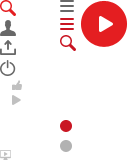
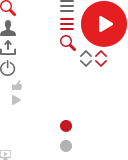
列表页完成

Changed region(s): [[0.75, 0.3125, 0.8438, 0.4375], [0.625, 0.3125, 0.7188, 0.4375]]

diff --git a/20140514-jd-video/css/list.css b/20140514-jd-video/css/list.css
@@ -1,123 +1,45 @@
 /*sprites*/
-.video-list li .thumb .icon-play,
-.banner-slide .slide-controls .arrow i,
-.recommend .hot .top .info .playbtn i,
-.recommend .slider .slider-controls li,
-.datashow i,
-.rank .tab-list li i,
-.newest .rank .tab-list .playnum i
+.filter-type li .sortarrow
 {background: url(../img/icons.png) no-repeat;}
-/*main*/
-.video-title{font-size: 18px; font-weight: bold; margin: 15px 0 10px 0; border-left: 4px solid #C81622; padding-left: 10px; line-height: 20px; position: relative;}
-.video-title .more{position: absolute; right: 10px; top: 5px; font-size: 12px; color: #CA1622;}
-.datashow i{width: 10px; height: 10px; background-position: 0 -80px; display: inline-block; margin-right: 5px; *position: relative; *top: -3px;}
-.datashow .playnum{padding-left: 30px;}
-.datashow .playnum i{width: 9px; background-position: 0 -95px;}
-.video-list li{float: left; width: 200px; margin-right: 17px; margin-bottom: 20px;}
-.video-list li a{color: #333;}
-.video-list li a:hover{color: #CA1622;}
-.video-list li .thumb{width: 200px; height: 110px; overflow: hidden; display: block; position: relative;}
-.video-list li .thumb .icon-play{width: 48px; height: 47px; position: absolute; left: 76px; top: 31px; background-position: -80px 0; z-index: 3; display: none;}
-.video-list li .thumb .alphabg{width: 200px; height: 110px; background-color: #000; opacity: 0.4; filter: alpha(opacity=40); position: absolute; top: 0; left: 0; display: none; z-index: 2;}
-.video-list li .thumb:hover .icon-play, .video-list li .thumb:hover .alphabg{display: block;}
-.video-list li .title{display: block; width: 200px; height: 20px; line-height: 20px; overflow: hidden; margin-top: 5px;}
-.video-list li .datashow{color: #999;}
-.video-list li .datashow i{background-position: -12px -80px;}
-.video-list li .datashow .playnum i{background-position: -12px -95px;}
 
 /*video-main*/
 .video-main{margin-top: 10px;}
-.banner-slide{width: 1200px; height: 400px; overflow: hidden; position: relative;}
-.banner-slide .slide-pic{position: relative; z-index: 0}
-.banner-slide .slide-pic li{position: absolute; left: 0; top: 0; opacity: 0; filter: alpha(opacity=0); z-index: 0;}
-.banner-slide .slide-pic .cur{z-index: 99; opacity: 1; filter: alpha(opacity=100);}
-.banner-slide .slide-controls{position: absolute; bottom: 15px; left: 236px; text-align: center; width: 727px; height: 60px; overflow: hidden; z-index: 5;}
-.banner-slide .slide-controls ul{display: inline-block; margin: 0 auto; *display: inline; *zoom: 1; background: rgba(0,0,0,0.4); padding: 5px 10px; filter: progid:DXImageTransform.Microsoft.gradient(enabled='true',startColorstr='#88000000',endColorstr='#88000000')}
-.banner-slide .slide-controls ul li{float: left; margin-right: 8px; cursor: pointer; position: relative; width: 85px; height: 50px; overflow: hidden;}
-.banner-slide .slide-controls ul li .border{width: 81px; height: 46px; border: 2px solid #E31E25; position: absolute; display: none;}
-.banner-slide .slide-controls ul li.cur .border{display: block;}
-.banner-slide .slide-controls .arrow{width: 24px; height: 50px; text-align: center; position: relative;}
-.banner-slide .slide-controls .arrow .bg{position: absolute; left: 0; top: 0; width: 24px; height: 50px; background-color: #fff; opacity: 0.2; filter:alpha(opacity=20);}
-.banner-slide .slide-controls .arrow:hover .bg{opacity: 0.4; filter:alpha(opacity=40);}
-.banner-slide .slide-controls .arrow i{width: 9px; height: 16px; display: block; background-position: 0 -130px; position: relative; z-index: 2; margin: 16px auto 0;}
-.banner-slide .slide-controls .arrow-r{margin-right: 0;}
-.banner-slide .slide-controls .arrow-r i{background-position: -10px -130px;}
+.nav-sub{border-bottom: 1px solid #D2D2D2; padding: 5px 0 15px;}
+.nav-sub .list li{float: left; margin-right: 30px;}
+.nav-sub .list li.cur a{color: #C81622; font-weight: bold;}
 
-.recommend{background-color: #FFF; height: 425px; border: 1px solid #D2D2D2; margin-top: 12px;}
-.recommend .video-title{margin-left: 10px;}
-.recommend .grid-m{width: 864px;}
-.recommend .grid-s{width: 333px; border-left: 1px solid #D2D2D2; height: 425px;}
-.recommend .hot .bd{padding-left: 15px; margin-top: 25px;}
-.recommend .hot .top{width: 400px; height: 320px; float: left; position: relative;}
-.recommend .hot .top img{width: 400px; height: 320px;}
-.recommend .hot .top .info{position: absolute; bottom: 0; left: 0; width: 332px; height: 95px; background-color:#333; color: #FFF; padding-left: 68px;}
-.recommend .hot .top .info a{color: #FFF;}
-.recommend .hot .top .info .playbtn{position: absolute; left: 0; top: 0; width: 48px; height: 95px; background-color: #E51E21; text-align: center; display: block;}
-.recommend .hot .top .info .playbtn:hover{background-color: #C91623;}
-.recommend .hot .top .info .playbtn i{width: 14px; height: 16px; background-position: 0 -110px; display: block; margin: 39px auto;}
-.recommend .hot .top .info .title{margin: 20px 0 10px; display: block; font-size: 14px; width: 312px; height: 20px; line-height: 20px; overflow: hidden; *float: left;}
-.recommend .hot .top .info .datashow{clear: both;}
-.recommend .slider{margin-left: 15px; width: 434px; float: left;}
-.recommend .slider .slider-list-con{width: 417px; height: 344px; overflow: hidden; position: relative; *height: 328px;}
-.recommend .slider .slider-list-wrap{position: absolute; left: 0; top: 0;}
-.recommend .slider .slider-list{float: left; width: 434px; margin-bottom: 10px;}
-.recommend .slider .slider-controls-con{text-align: center; position: relative; z-index: 5; top: -6px; *top: 12px;}
-.recommend .slider .slider-controls{display: inline-block; margin: 0 auto; *display: inline; *zoom: 1;}
-.recommend .slider .slider-controls li{width: 12px; height: 12px; background-position: -60px -140px; float: left; margin: 0 8px; cursor: pointer;}
-.recommend .slider .slider-controls .cur{background-position: -60px -120px;}
-.recommend .comment li {border-bottom: 1px solid #F1F1F1; padding: 15px 10px; height: 64px;}
-.recommend .comment li .user{width: 60px; height: 75px; float: left; text-align: center; margin-right: 6px;}
-.recommend .comment li .user .user-avatar{display: block; margin-bottom: 5px; position: relative;}
-.recommend .comment li .user .user-avatar .mask{background: url(../img/user-mask.png) no-repeat; width: 44px; height: 44px; position: absolute; top: 0; left: 8px;}
-.recommend .comment li .detail{margin-top: 5px;}
-.recommend .comment li .detail em{color: #999;}
-.recommend .comment li .detail .info{margin-top: 5px; line-height: 20px; height: 40px; overflow: hidden;}
-.recommend .comment li.last{border: none;}
+.filter-type{padding: 15px 0;}
+.filter-type ul{float: left; border-right: 1px solid #DDD; margin-right: 30px;}
+.filter-type li{float: left; margin-right: 30px; line-height: 18px;}
+.filter-type li input{float: left; margin: 2px 3px 0 0; *margin-top: -2px; padding: 0;}
+.filter-type li .sortarrow{width: 12px; height: 7px; background-position:  -80px -50px; display: inline-block; position: relative; top: -2px; left: 5px;}
+.filter-type li .sortarrow-down{background-position: -80px -60px;}
+.filter-type .filter-name{color: #999; margin-right: 10px;}
+.filter-type .filter-sort{border: none;}
+.filter-type .filter-sort a{text-decoration: none;}
+.filter-type .filter-sort a:hover .sortarrow,
+.filter-type .filter-sort .cur a .sortarrow{background-position: -95px -50px;}
+.filter-type .filter-sort a:hover .sortarrow-down,
+.filter-type .filter-sort .cur a .sortarrow-down{background-position: -95px -60px;}
+.filter-type .filter-sort .cur a{color: #CA1622;}
 
-.openclass{*padding-bottom: 15px;}
-.openclass .hot{overflow-x: hidden;}
-.openclass .hot .video-title{margin-right: 10px;}
-.openclass .hot .bd{margin: 15px 0 0 0;}
-.openclass .hot .video-list{margin-right: -15px;}
-.openclass .hot .video-list li{margin-right: 15px;}
-.openclass .rank .video-title{border: none; text-align: left; padding: 0; font-weight: normal;}
-.openclass .rank .bd{padding-left: 10px;}
-.tab-hd{border-bottom: 1px solid #D7D7D7; height: 25px; margin: 15px 0 10px; color: #666;}
-.tab-hd li{float: left; border-right: 1px solid #D7D7D7;  width: 80px; height: 18px; line-height: 18px; text-align: center; cursor: pointer; font-weight: bold; margin-top: 2px;}
-.tab-hd li.cur{color: #C81622;}
-.tab-hd li.cur span{border-bottom: 3px solid #C81622; display: inline-block; height: 21px; padding: 0 3px;}
-.tab-hd li.last{border-right: none;}
-.rank .tab-list{clear: both; margin-top: 20px;}
-.rank .tab-list li{clear: both; margin-bottom: 8px;}
-.rank .tab-list li .num{width: 13px; height: 24px; display: block; background-color: #C0C0C0; position: relative; margin-right: 10px; float: left;}
-.rank .tab-list li i{width: 7px; height: 13px; background-position: -30px 0; display: block; position: absolute; right: 0; bottom: 0;}
-.rank .tab-list li .txt{line-height: 24px; display: inline-block; width: 300px; height: 24px; overflow: hidden; word-wrap:break-word; word-break:break-all;}
-.rank .tab-list .top3 .num{background-color: #C81622;}
-.rank .tab-list .num2 i{width: 10px; height: 13px; background-position: -30px -20px;}
-.rank .tab-list .num3 i{width: 10px; height: 14px; background-position: -30px -40px;}
-.rank .tab-list .num4 i{width: 10px; height: 13px; background-position: -30px -60px;}
-.rank .tab-list .num5 i{width: 10px; height: 14px; background-position: -30px -80px;}
-.rank .tab-list .num6 i{width: 10px; height: 14px; background-position: -30px -100px;}
-.rank .tab-list .num7 i{width: 10px; height: 13px; background-position: -30px -120px;}
-.rank .tab-list .num8 i{width: 10px; height: 13px; background-position: -30px -140px;}
-
-.subject{padding-bottom: 20px;}
-.subject .subject-list{padding-top: 5px;}
-.subject .subject-list li{float: left; margin-right: 2px;}
-.subject .subject-list li a{display: block; width: 238px; height: 120px; overflow: hidden;}
-
-.newest .hot .tab-hd{font-size: 12px; margin-top: 0; border: none; position: absolute; left: 100px; top: 0;}
-.newest .hot .tab-hd li{width: auto; padding: 0 12px;}
-.newest .hot .tab-hd li span{padding: 0 3px;}
-.newest .hot .tab-hd li a{text-decoration: none;}
-.newest .hot .tab-hd li.cur a{color: #CA1622;}
-.newest .hot .tab-hd li.cur span{height: 19px;}
-.newest .hot .bd{height: 345px;}
-.newest .rank .tab-list{}
-.newest .rank .tab-list .txt{*margin-top: -15px;}
-.newest .rank .tab-list .title{color: #666}
-.newest .rank .tab-list .user{padding: 0 5px;}
-.newest .rank .tab-list .playnum{color: #999;}
-.newest .rank .tab-list .playnum i{width: 11px; height: 10px; background-position: 0 -150px; display: inline-block; position: relative; margin-right: 3px;}
-
-.footer{text-align: center; padding: 10px 0;}
+.video-list-result{clear: both;}
+.video-list-result .video-item{border-bottom: 1px solid #DDD;}
+.video-item{padding: 20px 0 10px;}
+.video-item .pic{float: left; margin-bottom: 10px;}
+.video-item .info{float: left; margin-left: 30px; width: 910px; margin-top: -3px;}
+.video-item .info .title{line-height: 20px;}
+.video-item .info .title, .video-item .info .title .user{color: #999;}
+.video-item .info .title .txt{font-size: 16px;}
+.video-item .info .title .user{margin: 0 15px 0 8px;}
+.video-item .info .title .date .time{padding-left: 5px;}
+.video-item .info .datashow{margin: 5px 0 15px;}
+.video-item .info .des{color: #666; line-height: 18px; height: 36px; overflow: hidden; margin-bottom: 8px;}
+.video-item .info .album-list{}
+.video-item .info .album-list li{float: left; margin: 0 3px 3px 0;}
+.video-item .info .album-list li a{display: block; background-color: #FFF; border: 1px solid #DDD; height: 23px; text-decoration: none; text-align: center; line-height: 23px; padding: 0 12px;}
+.video-item .info .album-list li a:hover{height: 25px; background-color: #C81622; border: none; display: block; color: #FFF; padding: 0 13px;}
+.video-item .info .album-page{clear: both; margin-top: 10px;}
+.video-item .info .album-page a{line-height: 12px; border-right: 1px solid #DDD; display: inline-block; padding: 0 15px; text-decoration: none;}
+.video-item .info .album-page .cur{color: #CA1622;}
+.video-item .info .album-page .last{border: none;}

diff --git a/20140514-jd-video/list.html b/20140514-jd-video/list.html
@@ -54,8 +54,8 @@
       </div>
       
       <ul class="nav-info">
-        <li class="cur"><a href="#">主页</a></li>
-        <li><a href="#">东哥开讲</a></li>
+        <li><a href="#">主页</a></li>
+        <li class="cur"><a href="#">东哥开讲</a></li>
         <li><a href="#">公开课</a></li>
         <li><a href="#">文档</a></li>
       </ul>
@@ -65,7 +65,138 @@
   <!-- video-main START-->
   <div class="video-main">
     <div class="w1200">
-      <div>list</div>
+      <div class="nav-sub">
+        <ul class="list clearfix">
+          <li class="cur"><a href="#">东哥开讲</a></li>
+          <li><a href="#">CTO系统</a></li>
+          <li><a href="#">内控合规部</a></li>
+          <li><a href="#">总裁办</a></li>
+          <li><a href="#">用户体验部</a></li>
+          <li><a href="#">CFO系统</a></li>
+          <li><a href="#">CHO&amp;GC系统</a></li>
+          <li><a href="#">CSO系统</a></li>
+          <li><a href="#">活动</a></li>
+        </ul>
+      </div>
+      <!-- nav-sub END-->
+      <div class="filter-type clearfix">
+        <ul class="filter-kind">
+          <li class="filter-name">类别：</li>
+          <li><label><input type="radio" name="filter-kind" checked="true">全部</label></li>
+          <li><label><input type="radio" name="filter-kind">公开课</label></li>
+          <li><label><input type="radio" name="filter-kind">非公开课</label></li>
+        </ul>
+        <ul class="filter-sort">
+          <li class="filter-name">排序：</li>
+          <li><a href="#" target="_self">发布时间<i class="sortarrow sortarrow-down"></i></a></li>
+          <li class="cur"><a href="#" target="_self">点击量<i class="sortarrow sortarrow-up"></i></a></li>
+          <li><a href="#" target="_self">点赞数<i class="sortarrow sortarrow-down"></i></a></li>
+        </ul>
+      </div>
+      <!-- filter-type END-->
+      <div class="video-list-result">
+        <div class="video-item clearfix">
+          <div class="pic"><a href="#" title="扬帆起航配送500强储备站长集训营"><img src="img/test/video-result.jpg" alt=""></a></div>
+          <div class="info">
+            <div class="title"><a href="#" class="txt">扬帆起航配送500强储备站长集训营</a><a href="#" class="user">Skydong</a><span class="date">2014.4.25<em class="time">14:00</em></span></div>
+            <div class="datashow datashow-gray">
+              <span class="praise"><i></i>24</span>
+              <span class="playnum"><i></i>247</span>
+            </div>
+            <div class="des">京东是中国最大的自营式电商企业，在线销售计算机、手机及其它数码产品、家电、汽车配件、服装与鞋类、奢侈品、家居与家庭用品、化妆品与其它个人护理用品、食品与营养品、书籍与其它媒体产品、母婴用品与玩具、体育与健身器材以及虚拟商品等13大类3,150万种SKUs优质商品。2013年，活跃用户数达到4740万人，完成订单量达到 3.233亿。</div>
+            <div class="album-list clearfix">
+              <ul>
+                <li><a href="#">第1集</a></li>
+                <li><a href="#">第2集</a></li>
+                <li><a href="#">第3集</a></li>
+                <li><a href="#">第4集</a></li>
+                <li><a href="#">第5集</a></li>
+                <li><a href="#">第6集</a></li>
+                <li><a href="#">第7集</a></li>
+                <li><a href="#">第8集</a></li>
+                <li><a href="#">第9集</a></li>
+                <li><a href="#">第10集</a></li>
+                <li><a href="#">第11集</a></li>
+                <li><a href="#">第12集</a></li>
+                <li><a href="#">第13集</a></li>
+                <li><a href="#">第14集</a></li>
+                <li><a href="#">第15集</a></li>
+                <li><a href="#">第16集</a></li>
+              </ul>
+            </div>
+            <div class="album-page">
+              <a href="#" class="page-num cur">1</a><a href="#" class="page-num">2</a><a href="#" class="page-num last">3</a>
+            </div>
+          </div>
+        </div>
+        <div class="video-item clearfix">
+          <div class="pic"><a href="#" title="扬帆起航配送500强储备站长集训营"><img src="img/test/video-result.jpg" alt=""></a></div>
+          <div class="info">
+            <div class="title"><a href="#" class="txt">扬帆起航配送500强储备站长集训营</a><a href="#" class="user">Skydong</a><span class="date">2014.4.25<em class="time">14:00</em></span></div>
+            <div class="datashow datashow-gray">
+              <span class="praise"><i></i>24</span>
+              <span class="playnum"><i></i>247</span>
+            </div>
+            <div class="des">京东是中国最大的自营式电商企业，在线销售计算机、手机及其它数码产品、家电、汽车配件、服装与鞋类、奢侈品、家居与家庭用品、化妆品与其它个人护理用品、食品与营养品、书籍与其它媒体产品、母婴用品与玩具、体育与健身器材以及虚拟商品等13大类3,150万种SKUs优质商品。2013年，活跃用户数达到4740万人，完成订单量达到 3.233亿。</div>
+            <div class="album-list clearfix">
+              <ul>
+                <li><a href="#">第1集</a></li>
+                <li><a href="#">第2集</a></li>
+                <li><a href="#">第3集</a></li>
+                <li><a href="#">第4集</a></li>
+                <li><a href="#">第5集</a></li>
+                <li><a href="#">第6集</a></li>
+                <li><a href="#">第7集</a></li>
+                <li><a href="#">第8集</a></li>
+                <li><a href="#">第9集</a></li>
+                <li><a href="#">第10集</a></li>
+                <li><a href="#">第11集</a></li>
+                <li><a href="#">第12集</a></li>
+                <li><a href="#">第13集</a></li>
+                <li><a href="#">第14集</a></li>
+                <li><a href="#">第15集</a></li>
+                <li><a href="#">第16集</a></li>
+              </ul>
+            </div>
+            <div class="album-page">
+              <a href="#" class="page-num cur">1</a><a href="#" class="page-num">2</a><a href="#" class="page-num last">3</a>
+            </div>
+          </div>
+        </div>
+        <div class="video-item clearfix">
+          <div class="pic"><a href="#" title="扬帆起航配送500强储备站长集训营"><img src="img/test/video-result.jpg" alt=""></a></div>
+          <div class="info">
+            <div class="title"><a href="#" class="txt">扬帆起航配送500强储备站长集训营</a><a href="#" class="user">Skydong</a><span class="date">2014.4.25<em class="time">14:00</em></span></div>
+            <div class="datashow datashow-gray">
+              <span class="praise"><i></i>24</span>
+              <span class="playnum"><i></i>247</span>
+            </div>
+            <div class="des">京东是中国最大的自营式电商企业，在线销售计算机、手机及其它数码产品、家电、汽车配件、服装与鞋类、奢侈品、家居与家庭用品、化妆品与其它个人护理用品、食品与营养品、书籍与其它媒体产品、母婴用品与玩具、体育与健身器材以及虚拟商品等13大类3,150万种SKUs优质商品。2013年，活跃用户数达到4740万人，完成订单量达到 3.233亿。</div>
+            <div class="album-list clearfix">
+              <ul>
+                <li><a href="#">1.供货商是我们的朋友</a></li>
+                <li><a href="#">2.营销团队存在的问题</a></li>
+                <li><a href="#">3.倒三角体系之团队</a></li>
+                <li><a href="#">4.大三角之成本和效率</a></li>
+                <li><a href="#">5.旅行三个上帝理念</a></li>
+                <li><a href="#">6.倒三角体系之三大系统</a></li>
+              </ul>
+            </div>
+          </div>
+        </div>
+      </div>
+      <!-- video-list-result END-->
+      <div class="page-list">
+        <ul>
+          <li><a href="#">上一页</a></li>
+          <li><span class="cur">1</span></li>
+          <li><a href="#">2</a></li>
+          <li><a href="#">3</a></li>
+          <li><a href="#">4</a></li>
+          <li><a href="#">下一页</a></li>
+        </ul>
+      </div>
+      <!-- page-list END-->
     </div>
   </div>
   <!-- video-main END-->

diff --git a/20140514-jd-video/css/base.css b/20140514-jd-video/css/base.css
@@ -25,7 +25,8 @@ img{vertical-align: top;}
 /*sprites*/
 .video-header .search-con .search-form .search-btn i,
 .video-header .user-nav li i,
-.video-nav .category .title i
+.video-nav .category .title i,
+.datashow i
 {background: url(../img/icons.png) no-repeat;}
 /*main*/
 body{background-color: #FBFBFB; font-family: 'Microsoft YaHei';}
@@ -78,3 +79,17 @@ body{background-color: #FBFBFB; font-family: 'Microsoft YaHei';}
 
 /*footer*/
 .footer{text-align: center; padding: 10px 0; border-top: 1px solid #D2D2D2;}
+
+/*datashow*/
+.datashow i{width: 10px; height: 10px; background-position: 0 -80px; display: inline-block; margin-right: 5px; *position: relative; *top: -3px;}
+.datashow .playnum{padding-left: 30px;}
+.datashow .playnum i{width: 9px; background-position: 0 -95px;}
+.datashow-gray i{background-position: -12px -80px;}
+.datashow-gray .playnum i{background-position: -12px -95px;}
+/*page-list*/
+.page-list{height: 35px; text-align: center; padding: 10px 0;}
+.page-list ul{display: inline-block; margin: 0 auto; *display: inline; *zoom: 1;}
+.page-list li{float: left; line-height: 20px;}
+.page-list li a{display: block; background-color: #FFF; border: 1px solid #DDD; padding: 3px 8px; text-decoration: none;}
+.page-list li .cur, .page-list li a{margin: 0 3px;}
+.page-list li .cur, .page-list li a:hover{padding: 4px 9px; background-color: #C81622; border: none; display: block; color: #FFF;}

diff --git a/20140514-jd-video/css/index.css b/20140514-jd-video/css/index.css
@@ -3,16 +3,12 @@
 .banner-slide .slide-controls .arrow i,
 .recommend .hot .top .info .playbtn i,
 .recommend .slider .slider-controls li,
-.datashow i,
 .rank .tab-list li i,
 .newest .rank .tab-list .playnum i
 {background: url(../img/icons.png) no-repeat;}
 /*main*/
 .video-title{font-size: 18px; font-weight: bold; margin: 15px 0 10px 0; border-left: 4px solid #C81622; padding-left: 10px; line-height: 20px; position: relative;}
 .video-title .more{position: absolute; right: 10px; top: 5px; font-size: 12px; color: #CA1622;}
-.datashow i{width: 10px; height: 10px; background-position: 0 -80px; display: inline-block; margin-right: 5px; *position: relative; *top: -3px;}
-.datashow .playnum{padding-left: 30px;}
-.datashow .playnum i{width: 9px; background-position: 0 -95px;}
 .video-list li{float: left; width: 200px; margin-right: 17px; margin-bottom: 20px;}
 .video-list li a{color: #333;}
 .video-list li a:hover{color: #CA1622;}
